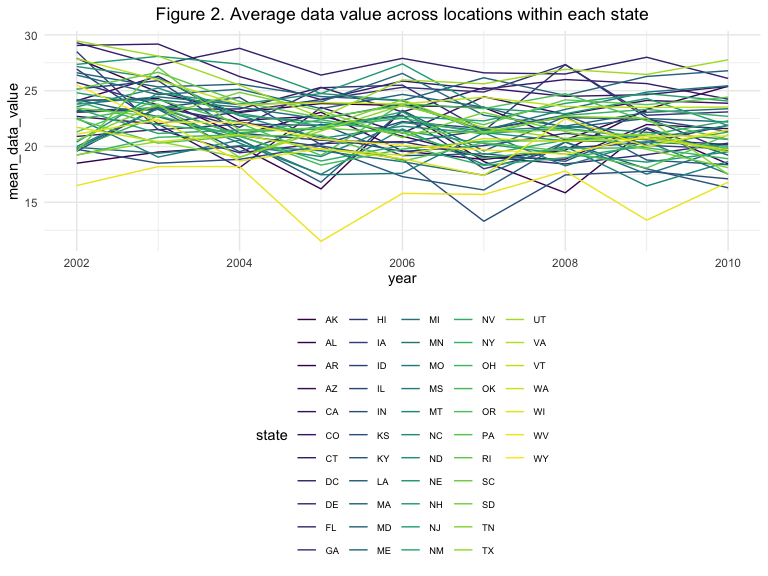
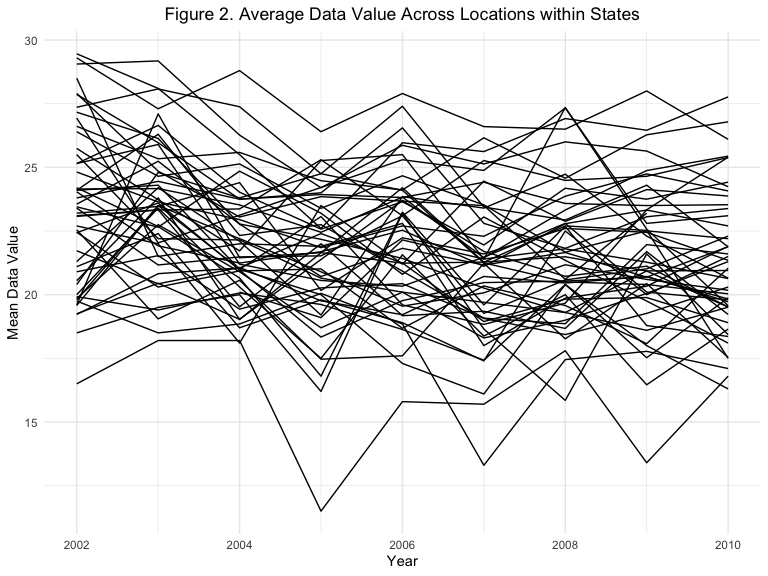
Editing data value plot and adding text description, problem 2

diff --git a/p8105_hw3_sm4594.md b/p8105_hw3_sm4594.md
@@ -211,14 +211,17 @@ brfss_subset = brfss_data %>%
   select(-data_value) %>% 
   distinct(.keep_all = TRUE)
 
-ggplot(brfss_subset, aes(x = year, y = mean_data_value)) + geom_line(aes(group = state, color = state)) + ggtitle("Figure 2. Average data value across locations within each state") + theme(plot.title = element_text(hjust = 0.5)) + theme(legend.text = element_text(size = 7))
+ggplot(brfss_subset, aes(x = year, y = mean_data_value)) + 
+  geom_line(aes(group = state)) + 
+  ggtitle("Figure 2. Average Data Value Across Locations within States") + 
+  theme(plot.title = element_text(hjust = 0.5)) +
+  ylab("Mean Data Value") +
+  xlab("Year")
 ```
 
 <img src="p8105_hw3_sm4594_files/figure-gfm/brfss_subset-1.png" width="90%" />
-
-``` r
-##should I add the legend? Comment on this.
-```
+According to Figure 2, the mean data value across states tends to fall
+between 20 and 25.
 
 The plot below shows the distribution of `data_value` responses among
 locations in New York state in 2006 and 2010:
